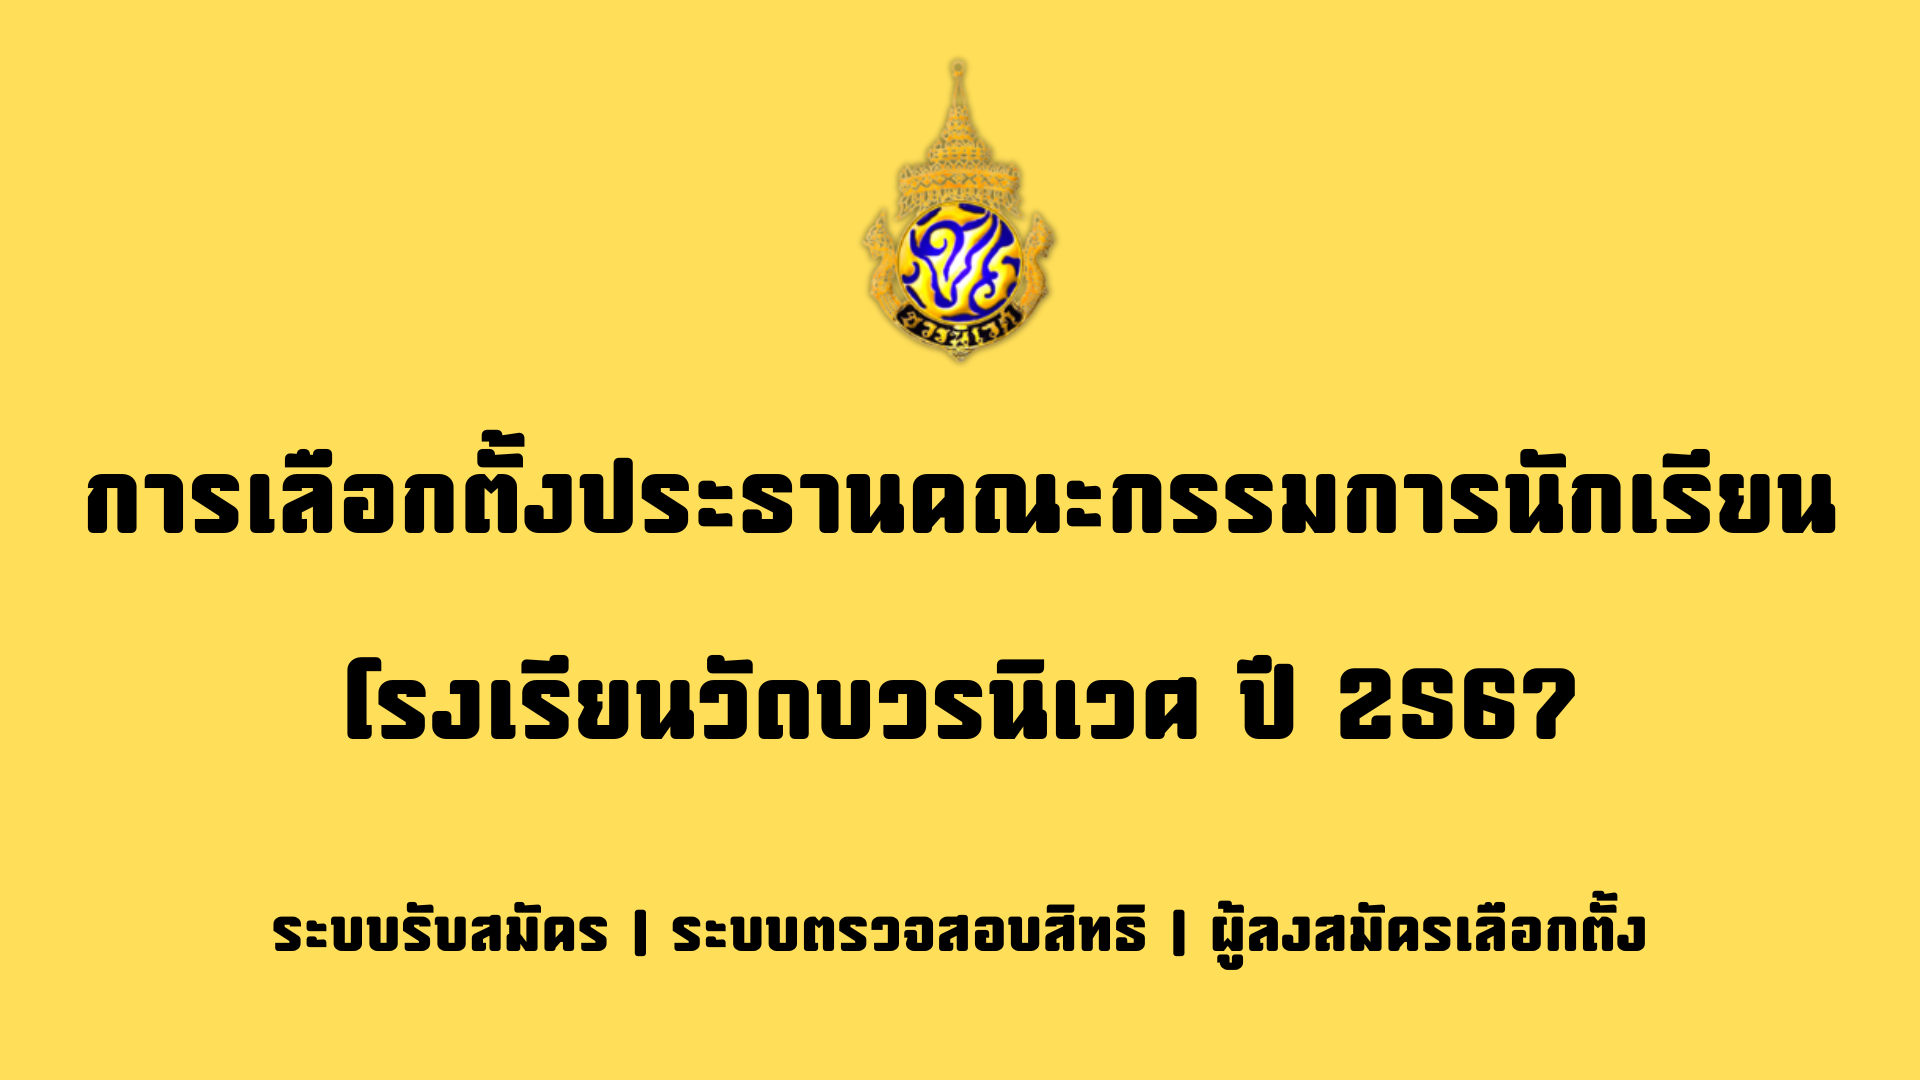
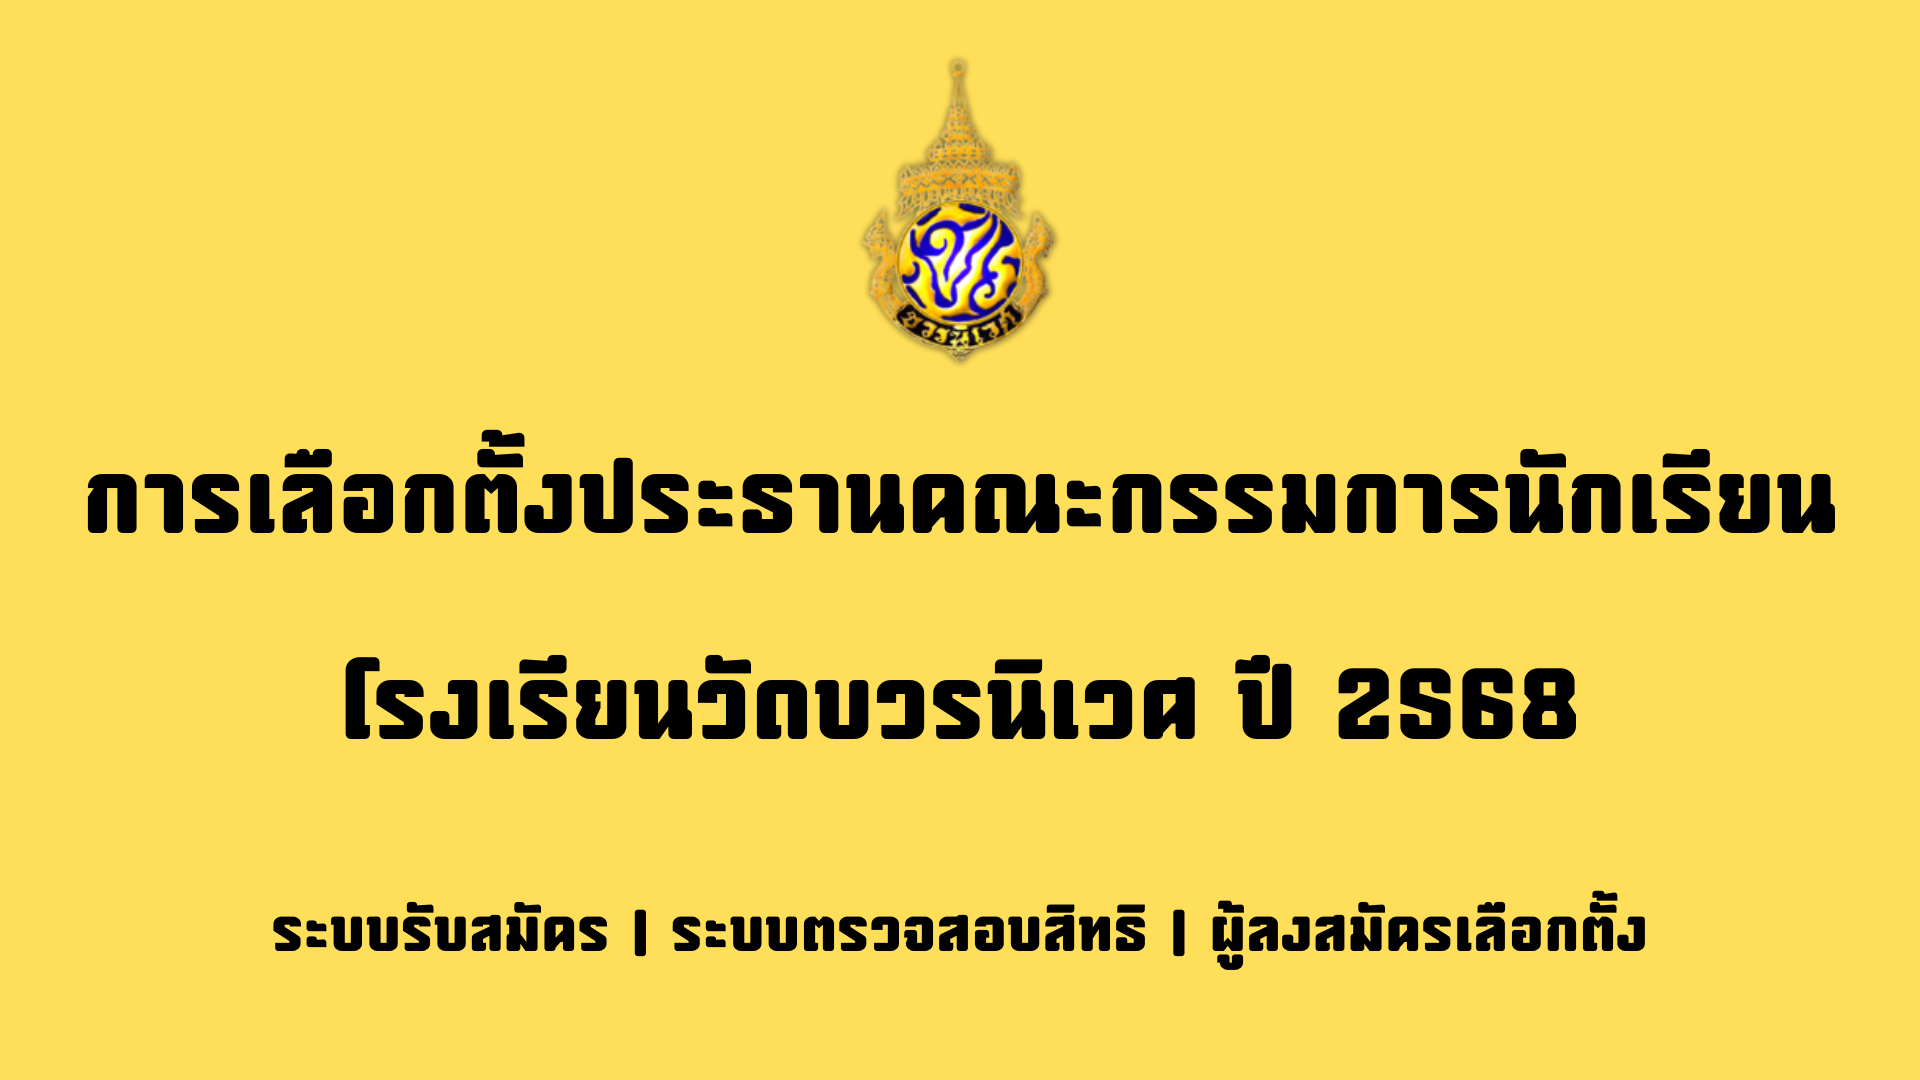
Change gtag & Update Meta data

Changed region(s): [[0.1875, 0.6417, 0.5625, 0.6722], [0.6562, 0.6111, 0.8438, 0.7028], [0.5938, 0.6417, 0.625, 0.6722]]

diff --git a/index.html b/index.html
@@ -5,20 +5,20 @@
     <meta http-equiv="Content-Type" content="text/html; charset=UTF-8" />
     <meta name="viewport" content="width=device-width, initial-scale=1">
     <meta name='robots' content='index, follow, max-image-preview:large, max-snippet:-1, max-video-preview:-1' />
-    <title>ระบบลงคะแนนเลือกตั้งออนไลน์</title>
+    <title>การเลือกตั้งประธานคณะกรรมการนักเรียน โรงเรียนวัดบวรนิเวศ ปี 2568</title>
 
     <!-- Google tag (gtag.js) -->
-    <script async src="https://www.googletagmanager.com/gtag/js?id=G-FFB8XWGRT9"></script>
+    <script async src="https://www.googletagmanager.com/gtag/js?id=G-DMMGZC2746"></script>
     <script>
-        window.dataLayer = window.dataLayer || [];
-        function gtag() { dataLayer.push(arguments); }
-        gtag('js', new Date());
+    window.dataLayer = window.dataLayer || [];
+    function gtag(){dataLayer.push(arguments);}
+    gtag('js', new Date());
 
-        gtag('config', 'G-FFB8XWGRT9');
+    gtag('config', 'G-DMMGZC2746');
     </script>
 
     <meta name="description" content="ระบบรับสมัคร | ระบบตรวจสอบสิทธิ | ผู้ลงสมัครเลือกตั้ง" />
-    <meta property="og:title" content="การเลือกตั้งประธานคณะกรรมการนักเรียน โรงเรียนวัดบวรนิเวศ ปี 2567">
+    <meta property="og:title" content="การเลือกตั้งประธานคณะกรรมการนักเรียน โรงเรียนวัดบวรนิเวศ ปี 2568">
     <meta property="og:image" content="https://election.bn-sc.cloud/meta.png">
 
 
